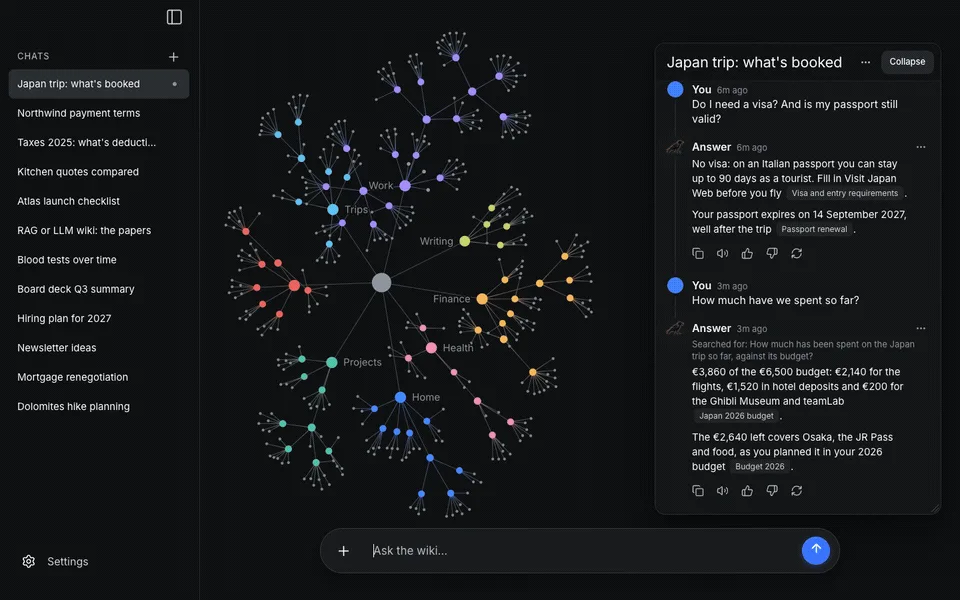
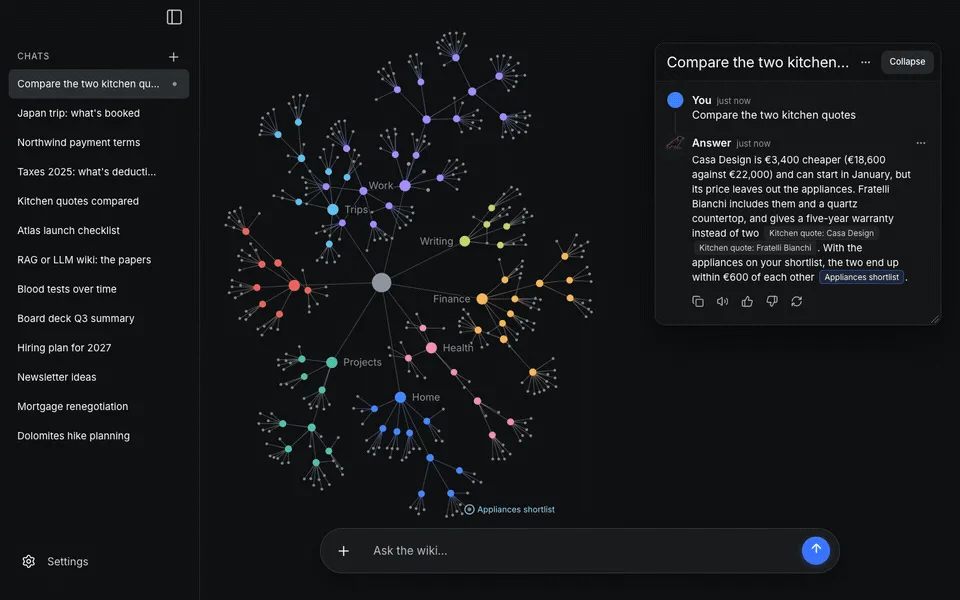
Apply the independent review: facts, wording and accessibility
- The traction line now sits under llm-wiki-v2, whose numbers it gives,
  with PyPI downloads counted as mirrors included
- Demo poster shows the answer the caption describes
- Project descriptions follow their READMEs (Python library, estimated
  engagement); clearer teaching lines; a session at UniBG on agents and RAG
- Profile and contact ledes rewritten; neutral podcast frame
- JSON-LD cites the concept DOI first published on 22 September 2026
- Smooth scrolling only without reduced motion, decorative icons hidden
  from screen readers, chips that never cut their label, Talks in the bar
- Open Graph card ends on Bergamo, Italy

diff --git a/index.html b/index.html
@@ -104,9 +104,10 @@
         ],
         "datePublished": "2026-09-22",
         "publisher": { "@type": "Organization", "name": "Zenodo", "url": "https://zenodo.org/" },
-        "url": "https://doi.org/10.5281/zenodo.23260209",
-        "sameAs": "https://zenodo.org/records/23260209",
-        "identifier": { "@type": "PropertyValue", "propertyID": "DOI", "value": "10.5281/zenodo.23260209" },
+        "url": "https://doi.org/10.5281/zenodo.22898752",
+        "sameAs": ["https://zenodo.org/records/23260209", "https://doi.org/10.5281/zenodo.23260209"],
+        "identifier": { "@type": "PropertyValue", "propertyID": "DOI", "value": "10.5281/zenodo.22898752" },
+        "dateModified": "2026-10-09",
         "about": ["LLM wikis", "Retrieval-augmented generation", "Text classification", "Memory for LLM agents"]
       },
       {
@@ -207,11 +208,11 @@
     html {
       background: var(--bg);
       color-scheme: dark;
-      scroll-behavior: smooth;
       scroll-padding-top: calc(var(--bar-h) + 16px);
       -webkit-text-size-adjust: 100%;
       scrollbar-color: #2f3236 var(--bg);
     }
+    @media (prefers-reduced-motion: no-preference) { html { scroll-behavior: smooth; } }
     body {
       font-family: var(--font);
       font-size: 16.5px;
@@ -283,6 +284,7 @@
     }
     .nav a:hover { color: var(--text); }
     .nav a[aria-current="true"] { color: var(--text); background: var(--control); }
+    @media (max-width: 1140px) { .nav .nav-wide { display: none; } }
     .top-right { justify-self: end; display: inline-flex; align-items: center; gap: 8px; }
     .icon-btn {
       display: inline-flex; align-items: center; justify-content: center;
@@ -343,7 +345,7 @@
     }
     .hero-inner { text-align: center; max-width: 900px; }
     .avatar {
-      width: 112px; height: 112px; margin: 0 auto 30px; border-radius: 50%;
+      width: 100px; height: 100px; margin: 0 auto 30px; border-radius: 50%;
       border: 1px solid var(--border);
       box-shadow: 0 18px 50px rgba(0, 0, 0, 0.5), 0 0 0 6px rgba(255, 255, 255, 0.03);
       object-fit: cover;
@@ -448,7 +450,7 @@
       transition: border-color 0.2s var(--ease), background 0.2s var(--ease);
     }
     .chip:hover { border-color: #3a3d42; background: #202226; }
-    .chip b { font-weight: 500; color: var(--text-3); }
+    .chip b { font-weight: 500; color: var(--text-3); white-space: nowrap; }
     .chip span { color: var(--accent-hi); overflow: hidden; text-overflow: ellipsis; white-space: nowrap; }
     .chip .i { width: 13px; height: 13px; color: var(--faint); }
 
@@ -769,13 +771,14 @@
         <a href="#secondbrain">SecondBrain</a>
         <a href="#experience">Experience</a>
         <a href="#writing">Writing</a>
+        <a class="nav-wide" href="#talks">Talks</a>
         <a href="#contact">Contact</a>
       </nav>
       <div class="top-right">
-        <a class="icon-btn icon-cv" href="assets/Federico_Cesarini_AI_Engineer_CV_2026.pdf" aria-label="CV, PDF" title="CV (PDF)"><svg class="i"><use href="#i-file"/></svg></a>
+        <a class="icon-btn icon-cv" href="assets/Federico_Cesarini_AI_Engineer_CV_2026.pdf" aria-label="CV, PDF" title="CV (PDF)"><svg class="i" aria-hidden="true" focusable="false"><use href="#i-file"/></svg></a>
         <a class="bar-cta" href="#contact" aria-label="Get in touch"><svg class="i" style="width:15px;height:15px" aria-hidden="true"><use href="#i-mail"/></svg><span>Get in touch</span></a>
         <button class="icon-btn menu-toggle" type="button" aria-expanded="false" aria-controls="menu" aria-label="Open the menu">
-          <svg class="i i-open"><use href="#i-menu"/></svg><svg class="i i-close"><use href="#i-close"/></svg>
+          <svg class="i i-open" aria-hidden="true" focusable="false"><use href="#i-menu"/></svg><svg class="i i-close" aria-hidden="true" focusable="false"><use href="#i-close"/></svg>
         </button>
       </div>
     </div>
@@ -794,19 +797,19 @@
   <section class="hero" id="top" aria-label="Introduction">
     <canvas data-brain data-seed="7" aria-hidden="true"></canvas>
     <div class="hero-inner" data-brain-clear>
-      <img class="avatar rise" src="1742824917112.jpeg" width="112" height="112" alt="Federico Cesarini" fetchpriority="high">
+      <img class="avatar rise" src="1742824917112.jpeg" width="100" height="100" alt="Federico Cesarini" fetchpriority="high">
       <h1 class="rise rise-1">Federico Cesarini</h1>
       <p class="claim rise rise-2"><b>I build memory systems</b> for agents, and humans.</p>
       <p class="roles rise rise-3"><span class="seg">AI Engineer &amp; Consultant</span><span class="dot" aria-hidden="true">·</span><span class="seg">Solo Founder, SecondBrain</span><span class="dot" aria-hidden="true">·</span><span class="seg">Bergamo, Italy</span></p>
       <div class="cta rise rise-4">
-        <a class="pill pill-white" href="#contact">Get in touch <svg class="i"><use href="#i-arrow"/></svg></a>
-        <a class="pill pill-dark" href="assets/Federico_Cesarini_AI_Engineer_CV_2026.pdf"><svg class="i"><use href="#i-file"/></svg>CV (PDF)</a>
+        <a class="pill pill-white" href="#contact">Get in touch <svg class="i" aria-hidden="true" focusable="false"><use href="#i-arrow"/></svg></a>
+        <a class="pill pill-dark" href="assets/Federico_Cesarini_AI_Engineer_CV_2026.pdf"><svg class="i" aria-hidden="true" focusable="false"><use href="#i-file"/></svg>CV (PDF)</a>
       </div>
       <div class="socials rise rise-5">
-        <a class="social" href="https://www.linkedin.com/in/federico-cesarini-4a9482209" rel="me noopener" target="_blank"><svg class="i"><use href="#i-linkedin"/></svg>LinkedIn</a>
-        <a class="social" href="https://github.com/fed3c3sa" rel="me noopener" target="_blank"><svg class="i"><use href="#i-github"/></svg>GitHub</a>
-        <a class="social" href="https://x.com/fed3c3sa" rel="me noopener" target="_blank"><svg class="i"><use href="#i-x"/></svg>X</a>
-        <a class="social" href="https://medium.com/@mail.fede.cesarini" rel="me noopener" target="_blank"><svg class="i"><use href="#i-medium"/></svg>Medium</a>
+        <a class="social" href="https://www.linkedin.com/in/federico-cesarini-4a9482209" rel="me noopener" target="_blank"><svg class="i" aria-hidden="true" focusable="false"><use href="#i-linkedin"/></svg>LinkedIn</a>
+        <a class="social" href="https://github.com/fed3c3sa" rel="me noopener" target="_blank"><svg class="i" aria-hidden="true" focusable="false"><use href="#i-github"/></svg>GitHub</a>
+        <a class="social" href="https://x.com/fed3c3sa" rel="me noopener" target="_blank"><svg class="i" aria-hidden="true" focusable="false"><use href="#i-x"/></svg>X</a>
+        <a class="social" href="https://medium.com/@mail.fede.cesarini" rel="me noopener" target="_blank"><svg class="i" aria-hidden="true" focusable="false"><use href="#i-medium"/></svg>Medium</a>
       </div>
     </div>
   </section>
@@ -817,7 +820,7 @@
       <section class="sec first" id="profile" aria-labelledby="h-profile">
         <div class="rail"><h2 id="h-profile">Profile</h2></div>
         <div class="body">
-          <p class="lede">AI engineer and consultant. I build memory systems for agentic AI and, more broadly, generative AI products that run in production, from the agents people talk to down to the cloud infrastructure underneath.</p>
+          <p class="lede">As an AI engineer and consultant, I work on memory systems for agentic AI and, more broadly, on generative AI products that run in production, from the agents people talk to down to the cloud infrastructure underneath.</p>
           <div class="prose">
             <p>At <a href="https://www.tinextainnovationhub.com/" target="_blank" rel="noopener">Tinexta</a> I lead the engineering of the main AI features of <a href="https://www.lextel.ai/" target="_blank" rel="noopener">Lextel.ai</a>, a platform for legal professionals: deep research, document generation and an agentic legal chat. On the memory side, I built <a href="#secondbrain">SecondBrain</a>, an AI memory app with paying subscribers on the App Store and Google Play, and, together with Marco Sassarini, <a href="#crow">CROW</a>, a paper and open-source project that makes knowledge bases maintained by language models cheaper and more accurate.</p>
           </div>
@@ -835,8 +838,8 @@
             </div>
             <div class="chips">
               <a class="chip" href="https://doi.org/10.5281/zenodo.23260209" target="_blank" rel="noopener"><b>Paper</b><span>doi.org/10.5281/zenodo.23260209</span></a>
-              <a class="chip" href="https://github.com/crow-hq/llm-wiki-v2" target="_blank" rel="noopener"><b>Code</b><span>github.com/crow-hq/llm-wiki-v2</span></a>
-              <a class="chip" href="https://github.com/crow-hq/crow-desktop" target="_blank" rel="noopener"><b>Desktop app</b><span>github.com/crow-hq/crow-desktop</span></a>
+              <a class="chip" href="https://github.com/crow-hq/llm-wiki-v2" target="_blank" rel="noopener"><b>Code</b><span>crow-hq/llm-wiki-v2</span></a>
+              <a class="chip" href="https://github.com/crow-hq/crow-desktop" target="_blank" rel="noopener"><b>Desktop app</b><span>crow-hq/crow-desktop</span></a>
               <a class="chip" href="https://pypi.org/project/llmwiki2/" target="_blank" rel="noopener"><b>PyPI</b><span>llmwiki2</span></a>
             </div>
             <div class="prose crow-prose">
@@ -875,8 +878,9 @@
 
             <div class="prose">
               <p>The cost of each new document stays flat as the wiki grows, and a cost model built on these measurements keeps it at about $0.006 per document up to a million documents.</p>
-              <p>The open-source implementation, which I maintain, is a wiki of plain Markdown files that runs on your own computer with any AI provider, Ollama included, and cites its sources. It can also be the long-term memory of Claude Code, Codex or any MCP client.</p>
+              <p>The open-source implementation, which I maintain, keeps the wiki as plain Markdown files on your own computer, works with any AI provider, Ollama included, and cites its sources. It can also be the long-term memory of Claude Code, Codex or any MCP client.</p>
             </div>
+            <p class="traction">With no paid ads, as of November 2026 llm-wiki-v2 has <b>250+ stars</b> and <b>40+ forks</b> on GitHub and <b>about 3,000 downloads</b> on PyPI (mirrors included), and the paper <b>about 3,000 views</b> on Zenodo.</p>
           </article>
 
           <article class="entry desk">
@@ -895,15 +899,14 @@
                 <source src="assets/media/crow-desktop-ask.mp4" type="video/mp4">
               </video>
               <button class="vid-toggle" type="button" data-demo-toggle aria-label="Play the demo">
-                <svg class="i i-play"><use href="#i-play"/></svg><svg class="i i-pause"><use href="#i-pause"/></svg>
+                <svg class="i i-play" aria-hidden="true" focusable="false"><use href="#i-play"/></svg><svg class="i i-pause" aria-hidden="true" focusable="false"><use href="#i-pause"/></svg>
               </button>
             </figure>
-            <p class="caption">Crow answering a question about two kitchen quotes: the answer cites its notes, and the brain beside it shows where they live.</p>
+            <p class="caption">Crow answering from the wiki: each answer cites the notes it used, and they light up in the brain beside the chat.</p>
             <div class="actions">
-              <a class="pill pill-white" href="https://github.com/crow-hq/crow-desktop/releases/latest" target="_blank" rel="noopener"><svg class="i"><use href="#i-down"/></svg>Download Crow</a>
-              <span class="code"><span class="prompt">$</span>pip install llmwiki2<button class="copy" type="button" data-copy="pip install llmwiki2" aria-label="Copy pip install llmwiki2"><svg class="i i-copy"><use href="#i-copy"/></svg><svg class="i i-check"><use href="#i-check"/></svg></button></span>
+              <a class="pill pill-white" href="https://github.com/crow-hq/crow-desktop/releases/latest" target="_blank" rel="noopener"><svg class="i" aria-hidden="true" focusable="false"><use href="#i-down"/></svg>Download Crow</a>
+              <span class="code"><span class="prompt">$</span>pip install llmwiki2<button class="copy" type="button" data-copy="pip install llmwiki2" aria-label="Copy pip install llmwiki2"><svg class="i i-copy" aria-hidden="true" focusable="false"><use href="#i-copy"/></svg><svg class="i i-check" aria-hidden="true" focusable="false"><use href="#i-check"/></svg></button></span>
             </div>
-            <p class="traction">With no paid ads, by November 2026: <b>250+ stars</b> and <b>40+ forks</b> on GitHub, <b>about 3,000 downloads</b> on PyPI and <b>about 3,000 views</b> of the paper.</p>
           </article>
         </div>
       </section>
@@ -917,9 +920,9 @@
           <h2 id="h-sb">Just talk.<br><span>SecondBrain remembers.</span></h2>
           <p class="sb-lead">An AI memory app for iPhone, Android and the web, designed, built and launched as a one-person project, first on the App Store and then on Google Play. It is live on both today, with paying subscribers.</p>
           <div class="sb-cta">
-            <a class="sb-btn primary" href="https://apps.apple.com/us/app/secondbrain-ai-memory/id6762130376" target="_blank" rel="noopener"><svg class="i"><use href="#i-apple"/></svg>App Store</a>
-            <a class="sb-btn" href="https://play.google.com/store/apps/details?id=app.secondbrain.android" target="_blank" rel="noopener"><svg class="i"><use href="#i-play-store"/></svg>Google Play</a>
-            <a class="sb-btn" href="https://app.secondbrainmemory.com/" target="_blank" rel="noopener"><svg class="i"><use href="#i-globe"/></svg>Web app</a>
+            <a class="sb-btn primary" href="https://apps.apple.com/us/app/secondbrain-ai-memory/id6762130376" target="_blank" rel="noopener"><svg class="i" aria-hidden="true" focusable="false"><use href="#i-apple"/></svg>App Store</a>
+            <a class="sb-btn" href="https://play.google.com/store/apps/details?id=app.secondbrain.android" target="_blank" rel="noopener"><svg class="i" aria-hidden="true" focusable="false"><use href="#i-play-store"/></svg>Google Play</a>
+            <a class="sb-btn" href="https://app.secondbrainmemory.com/" target="_blank" rel="noopener"><svg class="i" aria-hidden="true" focusable="false"><use href="#i-globe"/></svg>Web app</a>
           </div>
           <p class="meta">Solo founder and builder: engineering, product, design and growth<span class="dot">·</span><span class="num">since 2026</span></p>
         </div>
@@ -948,10 +951,10 @@
         </div>
 
         <div class="sb-links">
-          <a href="https://secondbrainmemory.com/" target="_blank" rel="noopener">secondbrainmemory.com<svg class="i"><use href="#i-out"/></svg></a>
-          <a href="https://github.com/fed3c3sa/secondbrain-shared-memory" target="_blank" rel="noopener">Shared memory plugin on GitHub<svg class="i"><use href="#i-out"/></svg></a>
-          <a href="https://www.producthunt.com/products/secondbrain" target="_blank" rel="noopener">Product Hunt<svg class="i"><use href="#i-out"/></svg></a>
-          <a href="https://www.youtube.com/@SecondBrainAPP" target="_blank" rel="noopener">YouTube channel<svg class="i"><use href="#i-out"/></svg></a>
+          <a href="https://secondbrainmemory.com/" target="_blank" rel="noopener">secondbrainmemory.com<svg class="i" aria-hidden="true" focusable="false"><use href="#i-out"/></svg></a>
+          <a href="https://github.com/fed3c3sa/secondbrain-shared-memory" target="_blank" rel="noopener">Shared memory plugin on GitHub<svg class="i" aria-hidden="true" focusable="false"><use href="#i-out"/></svg></a>
+          <a href="https://www.producthunt.com/products/secondbrain" target="_blank" rel="noopener">Product Hunt<svg class="i" aria-hidden="true" focusable="false"><use href="#i-out"/></svg></a>
+          <a href="https://www.youtube.com/@SecondBrainAPP" target="_blank" rel="noopener">YouTube channel<svg class="i" aria-hidden="true" focusable="false"><use href="#i-out"/></svg></a>
         </div>
       </div>
     </section>
@@ -1024,11 +1027,11 @@
           <ul class="rows">
             <li>
               <p class="row-title"><a href="https://github.com/fed3c3sa/nlq_translator" target="_blank" rel="noopener">Elasticsearch Natural Language Query</a><a class="repo" href="https://github.com/fed3c3sa/nlq_translator" target="_blank" rel="noopener" tabindex="-1" aria-hidden="true">github.com/fed3c3sa/nlq_translator</a></p>
-              <p>A service that lets you question Elasticsearch in plain language: GPT writes the query and refines it, using the structure of the index as context.</p>
+              <p>A Python library that lets you question Elasticsearch in plain language: GPT writes the query and refines it, using the structure of the index as context.</p>
             </li>
             <li>
               <p class="row-title"><a href="https://github.com/fed3c3sa/linkAIin" target="_blank" rel="noopener">linkAIin, LinkedIn AI Auto-Poster</a><a class="repo" href="https://github.com/fed3c3sa/linkAIin" target="_blank" rel="noopener" tabindex="-1" aria-hidden="true">github.com/fed3c3sa/linkAIin</a></p>
-              <p>A Google Cloud Function that researches, writes and publishes LinkedIn posts with GPT, optionally with DALL-E images, and tracks how they perform.</p>
+              <p>A Google Cloud Function that researches, writes and publishes LinkedIn posts with GPT, optionally with DALL-E images, and estimates the engagement each post may get.</p>
             </li>
             <li>
               <p class="row-title"><a href="https://github.com/fed3c3sa/claude-cad" target="_blank" rel="noopener">Claude CAD</a><a class="repo" href="https://github.com/fed3c3sa/claude-cad" target="_blank" rel="noopener" tabindex="-1" aria-hidden="true">github.com/fed3c3sa/claude-cad</a></p>
@@ -1119,8 +1122,8 @@
         <div class="body">
           <article class="talk">
             <a class="thumb" href="https://www.youtube.com/watch?v=LOfTKtfwc4I" target="_blank" rel="noopener" aria-label="Watch SecondBrain Podcast episode 1 on YouTube">
-              <img src="assets/img/podcast-ep1.webp" width="640" height="360" loading="lazy" decoding="async" alt="Federico Cesarini and Kevin Faggioli at two microphones">
-              <span class="play"><svg class="i"><use href="#i-play"/></svg><span class="num">40:57</span></span>
+              <img src="assets/img/podcast-ep1.webp" width="640" height="360" loading="lazy" decoding="async" alt="A frame from SecondBrain Podcast episode 1">
+              <span class="play"><svg class="i" aria-hidden="true" focusable="false"><use href="#i-play"/></svg><span class="num">40:57</span></span>
             </a>
             <div>
               <h3><a href="https://www.youtube.com/watch?v=LOfTKtfwc4I" target="_blank" rel="noopener">AI Engineer: Developers Won't Exist in 5 Years (Do This)</a></h3>
@@ -1129,9 +1132,14 @@
             </div>
           </article>
           <div class="teach">
+            <h3>AI agents, multi-agent systems and RAG</h3>
+            <p class="org">Università degli Studi di Bergamo · Apr 2026</p>
+            <p>A session on how agents reason and use tools, the ReAct loop, when several specialized agents work better than one agent with many tools, retrieval and MCP, with demos.</p>
+          </div>
+          <div class="teach">
             <h3>AI masterclasses and courses for companies</h3>
-            <p class="org">Organized by Tinexta Innovation Hub, and hands-on sessions with company teams</p>
-            <p>How language models really work, why they make things up, retrieval, agents and MCP, and how to put Claude to work on everyday tasks, explained without formulas or hype.</p>
+            <p class="org">Executive masterclasses organized by Tinexta Innovation Hub, and hands-on courses for company teams</p>
+            <p>How a language model really works, from tokens and the context window to why an answer can sound right and still be wrong, then retrieval, agents and how to put Claude to work on everyday tasks, explained without formulas or hype.</p>
           </div>
         </div>
       </section>
@@ -1153,22 +1161,22 @@
       <section class="sec" id="contact" aria-labelledby="h-contact">
         <div class="rail"><h2 id="h-contact">Contact</h2></div>
         <div class="body">
-          <p class="contact-lede">Consulting on memory systems and AI agents, talks, or a project together. <span>Write a line.</span></p>
+          <p class="contact-lede">For consulting on memory systems and AI agents, a talk or a project together, <span>write a line below.</span></p>
           <form class="composer" data-to="federico.cesarini.consulting@gmail.com" action="mailto:federico.cesarini.consulting@gmail.com" method="get">
             <label class="vh" for="msg">Your message to Federico</label>
             <textarea id="msg" name="body" rows="1" placeholder="Write to Federico…"></textarea>
-            <button class="send" type="submit" aria-label="Write the email"><svg class="i"><use href="#i-send"/></svg></button>
+            <button class="send" type="submit" aria-label="Write the email"><svg class="i" aria-hidden="true" focusable="false"><use href="#i-send"/></svg></button>
           </form>
           <p class="composer-hint">It opens your email app, addressed to federico.cesarini.consulting@gmail.com.</p>
           <ul class="contacts">
-            <li class="wide"><a href="mailto:federico.cesarini.consulting@gmail.com"><svg class="i"><use href="#i-mail"/></svg><span class="k">Email</span><span class="v">federico.cesarini.consulting@gmail.com</span></a></li>
-            <li><a href="tel:+393920891327"><svg class="i"><use href="#i-phone"/></svg><span class="k">Phone</span><span class="v num">+39&nbsp;392&nbsp;089&nbsp;1327</span></a></li>
-            <li><a href="https://www.linkedin.com/in/federico-cesarini-4a9482209" target="_blank" rel="me noopener"><svg class="i"><use href="#i-linkedin"/></svg><span class="k">LinkedIn</span><span class="v">federico-cesarini-4a9482209</span></a></li>
-            <li><a href="https://github.com/fed3c3sa" target="_blank" rel="me noopener"><svg class="i"><use href="#i-github"/></svg><span class="k">GitHub</span><span class="v">fed3c3sa</span></a></li>
-            <li><a href="https://github.com/crow-hq" target="_blank" rel="noopener"><svg class="i"><use href="#i-github"/></svg><span class="k">CROW</span><span class="v">github.com/crow-hq</span></a></li>
-            <li><a href="https://x.com/fed3c3sa" target="_blank" rel="me noopener"><svg class="i"><use href="#i-x"/></svg><span class="k">X</span><span class="v">@fed3c3sa</span></a></li>
-            <li><a href="https://medium.com/@mail.fede.cesarini" target="_blank" rel="me noopener"><svg class="i"><use href="#i-medium"/></svg><span class="k">Medium</span><span class="v">@mail.fede.cesarini</span></a></li>
-            <li><a href="assets/Federico_Cesarini_AI_Engineer_CV_2026.pdf"><svg class="i"><use href="#i-file"/></svg><span class="k">CV</span><span class="v">PDF, 3 pages</span></a></li>
+            <li class="wide"><a href="mailto:federico.cesarini.consulting@gmail.com"><svg class="i" aria-hidden="true" focusable="false"><use href="#i-mail"/></svg><span class="k">Email</span><span class="v">federico.cesarini.consulting@gmail.com</span></a></li>
+            <li><a href="tel:+393920891327"><svg class="i" aria-hidden="true" focusable="false"><use href="#i-phone"/></svg><span class="k">Phone</span><span class="v num">+39&nbsp;392&nbsp;089&nbsp;1327</span></a></li>
+            <li><a href="https://www.linkedin.com/in/federico-cesarini-4a9482209" target="_blank" rel="me noopener"><svg class="i" aria-hidden="true" focusable="false"><use href="#i-linkedin"/></svg><span class="k">LinkedIn</span><span class="v">federico-cesarini-4a9482209</span></a></li>
+            <li><a href="https://github.com/fed3c3sa" target="_blank" rel="me noopener"><svg class="i" aria-hidden="true" focusable="false"><use href="#i-github"/></svg><span class="k">GitHub</span><span class="v">fed3c3sa</span></a></li>
+            <li><a href="https://github.com/crow-hq" target="_blank" rel="noopener"><svg class="i" aria-hidden="true" focusable="false"><use href="#i-github"/></svg><span class="k">CROW</span><span class="v">github.com/crow-hq</span></a></li>
+            <li><a href="https://x.com/fed3c3sa" target="_blank" rel="me noopener"><svg class="i" aria-hidden="true" focusable="false"><use href="#i-x"/></svg><span class="k">X</span><span class="v">@fed3c3sa</span></a></li>
+            <li><a href="https://medium.com/@mail.fede.cesarini" target="_blank" rel="me noopener"><svg class="i" aria-hidden="true" focusable="false"><use href="#i-medium"/></svg><span class="k">Medium</span><span class="v">@mail.fede.cesarini</span></a></li>
+            <li><a href="assets/Federico_Cesarini_AI_Engineer_CV_2026.pdf"><svg class="i" aria-hidden="true" focusable="false"><use href="#i-file"/></svg><span class="k">CV</span><span class="v">PDF, 3 pages</span></a></li>
           </ul>
         </div>
       </section>

diff --git a/tools/og-card.html b/tools/og-card.html
@@ -23,7 +23,7 @@ h1{margin:30px 0 0;font-size:70px;line-height:1;font-weight:600;letter-spacing:-
     <img class="avatar" src="../1742824917112.jpeg" alt="">
     <h1>Federico Cesarini</h1>
     <p class="claim"><b>I build memory systems</b><br>for agents, and humans.</p>
-    <p class="roles">AI Engineer &amp; Consultant<i>·</i>Solo Founder, SecondBrain<i>·</i>CROW</p>
+    <p class="roles">AI Engineer &amp; Consultant<i>·</i>Solo Founder, SecondBrain<i>·</i>Bergamo, Italy</p>
     <p class="url">federicocesarini.com</p>
   </div>
 </div>

diff --git a/README.md b/README.md
@@ -2,7 +2,7 @@
 
 Personal site of Federico Cesarini, served by GitHub Pages from `main` (custom domain in `CNAME`).
 
-One static page, no build step and no trackers:
+The site is one static page, with no build step and no trackers (`barrios-barbershop.html` is a separate page hosted here):
 
 - `index.html`: the page, with its CSS inline. Styled after the Crow desktop app (graphite, one blue, Inter, the brain) with a light section in SecondBrain's own style.
 - `assets/brain.js`: the brain behind the hero, drawn on a canvas the way Crow paints its wiki.
@@ -11,4 +11,4 @@ One static page, no build step and no trackers:
 - `llms.txt`, `robots.txt`, `sitemap.xml`: for search engines and AI assistants.
 - `tools/og-card.html`: the source of `assets/og.png`. Serve the repo locally (`python3 -m http.server`) and capture it with headless Chrome at 1200x630 with `--force-prefers-reduced-motion`.
 
-House rule: no em-dash or en-dash anywhere, in copy or code.
+House rule: no em-dash or en-dash in the site's copy or code.
